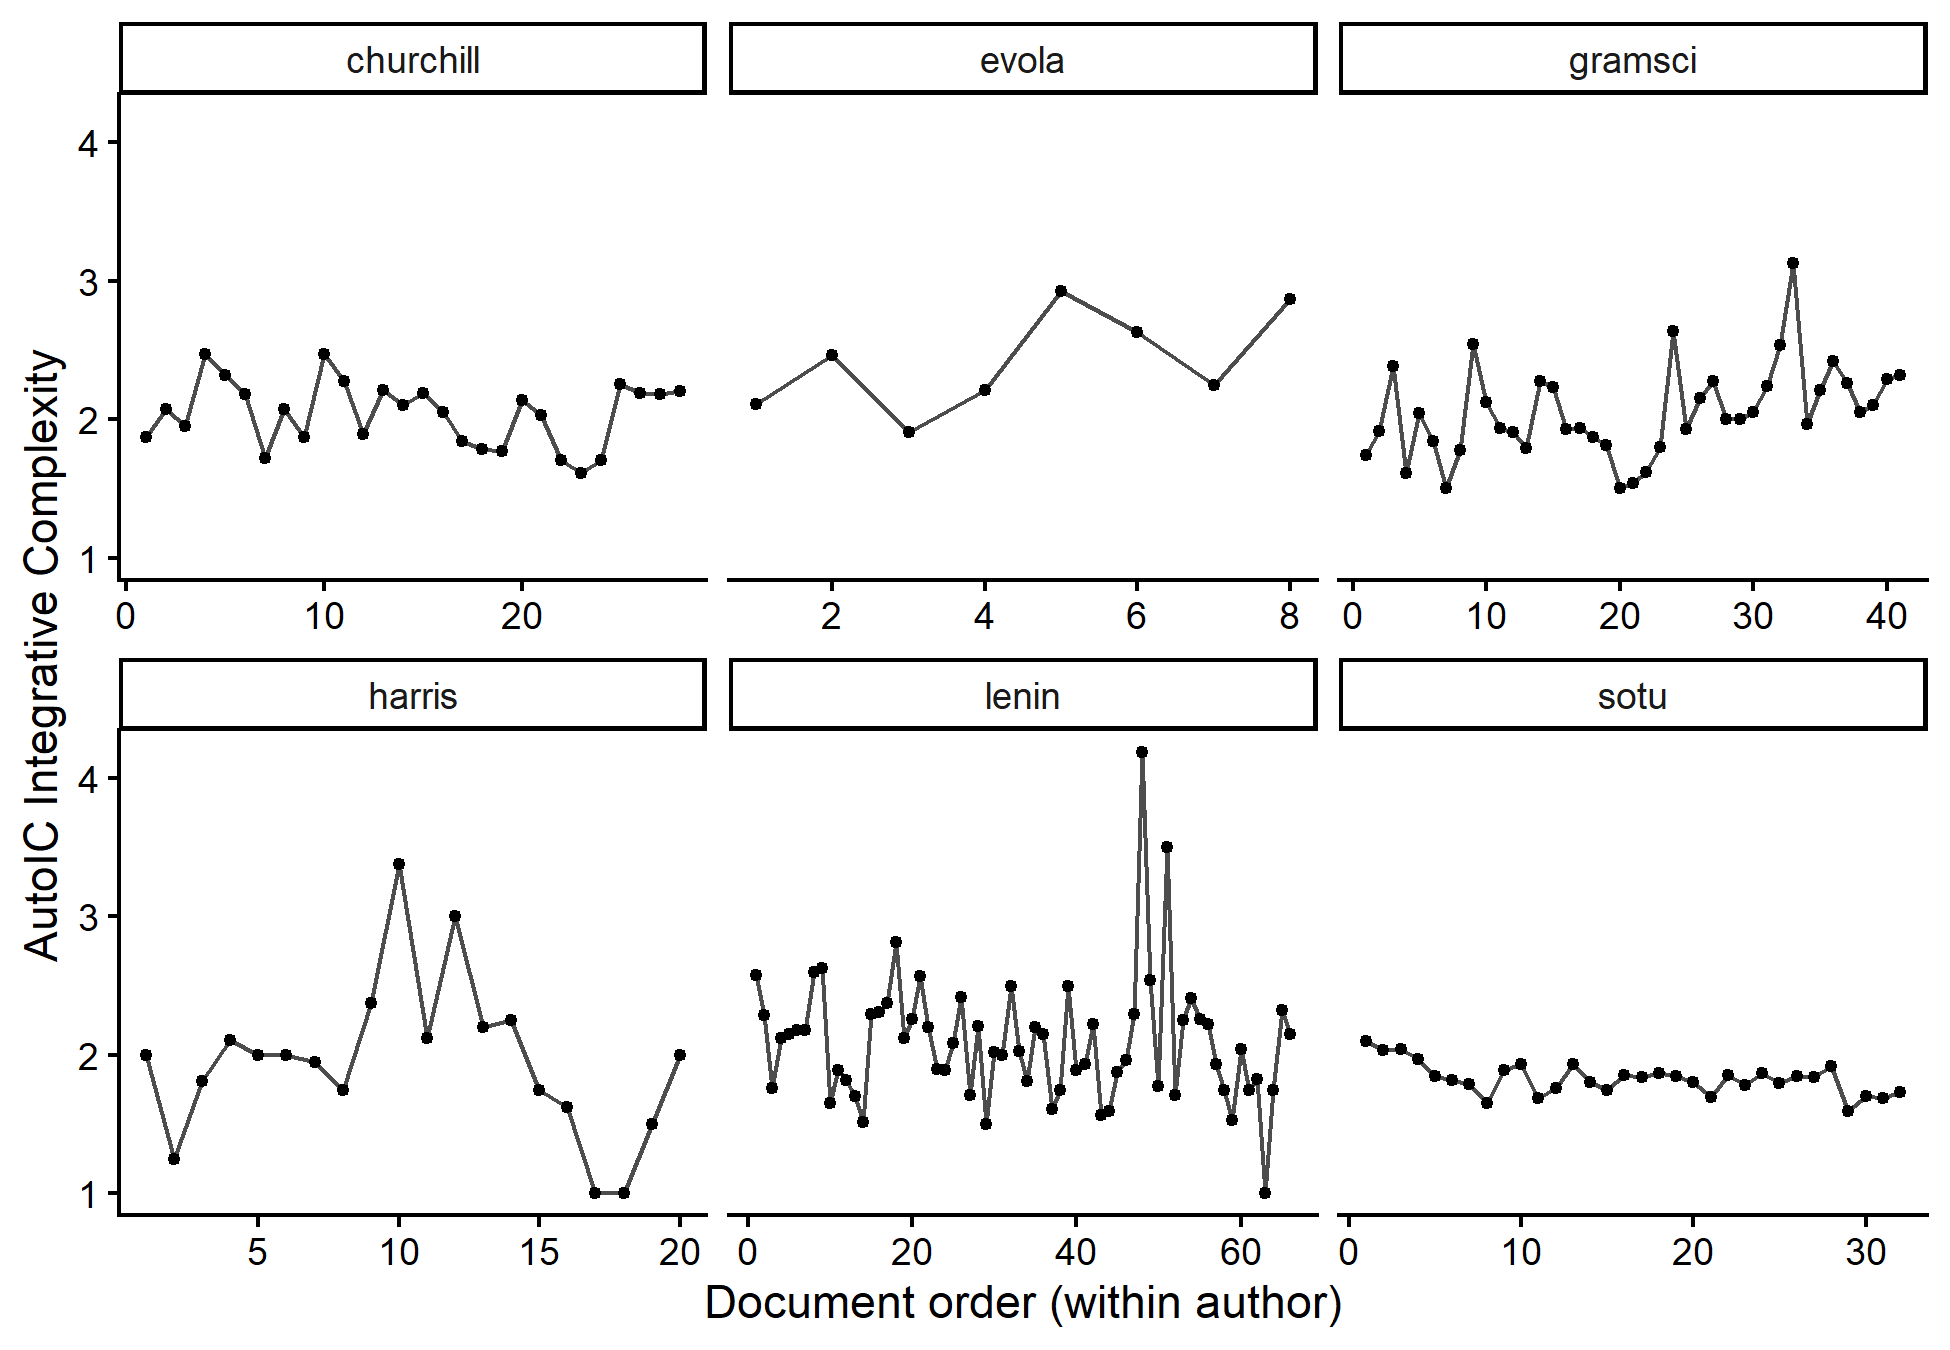
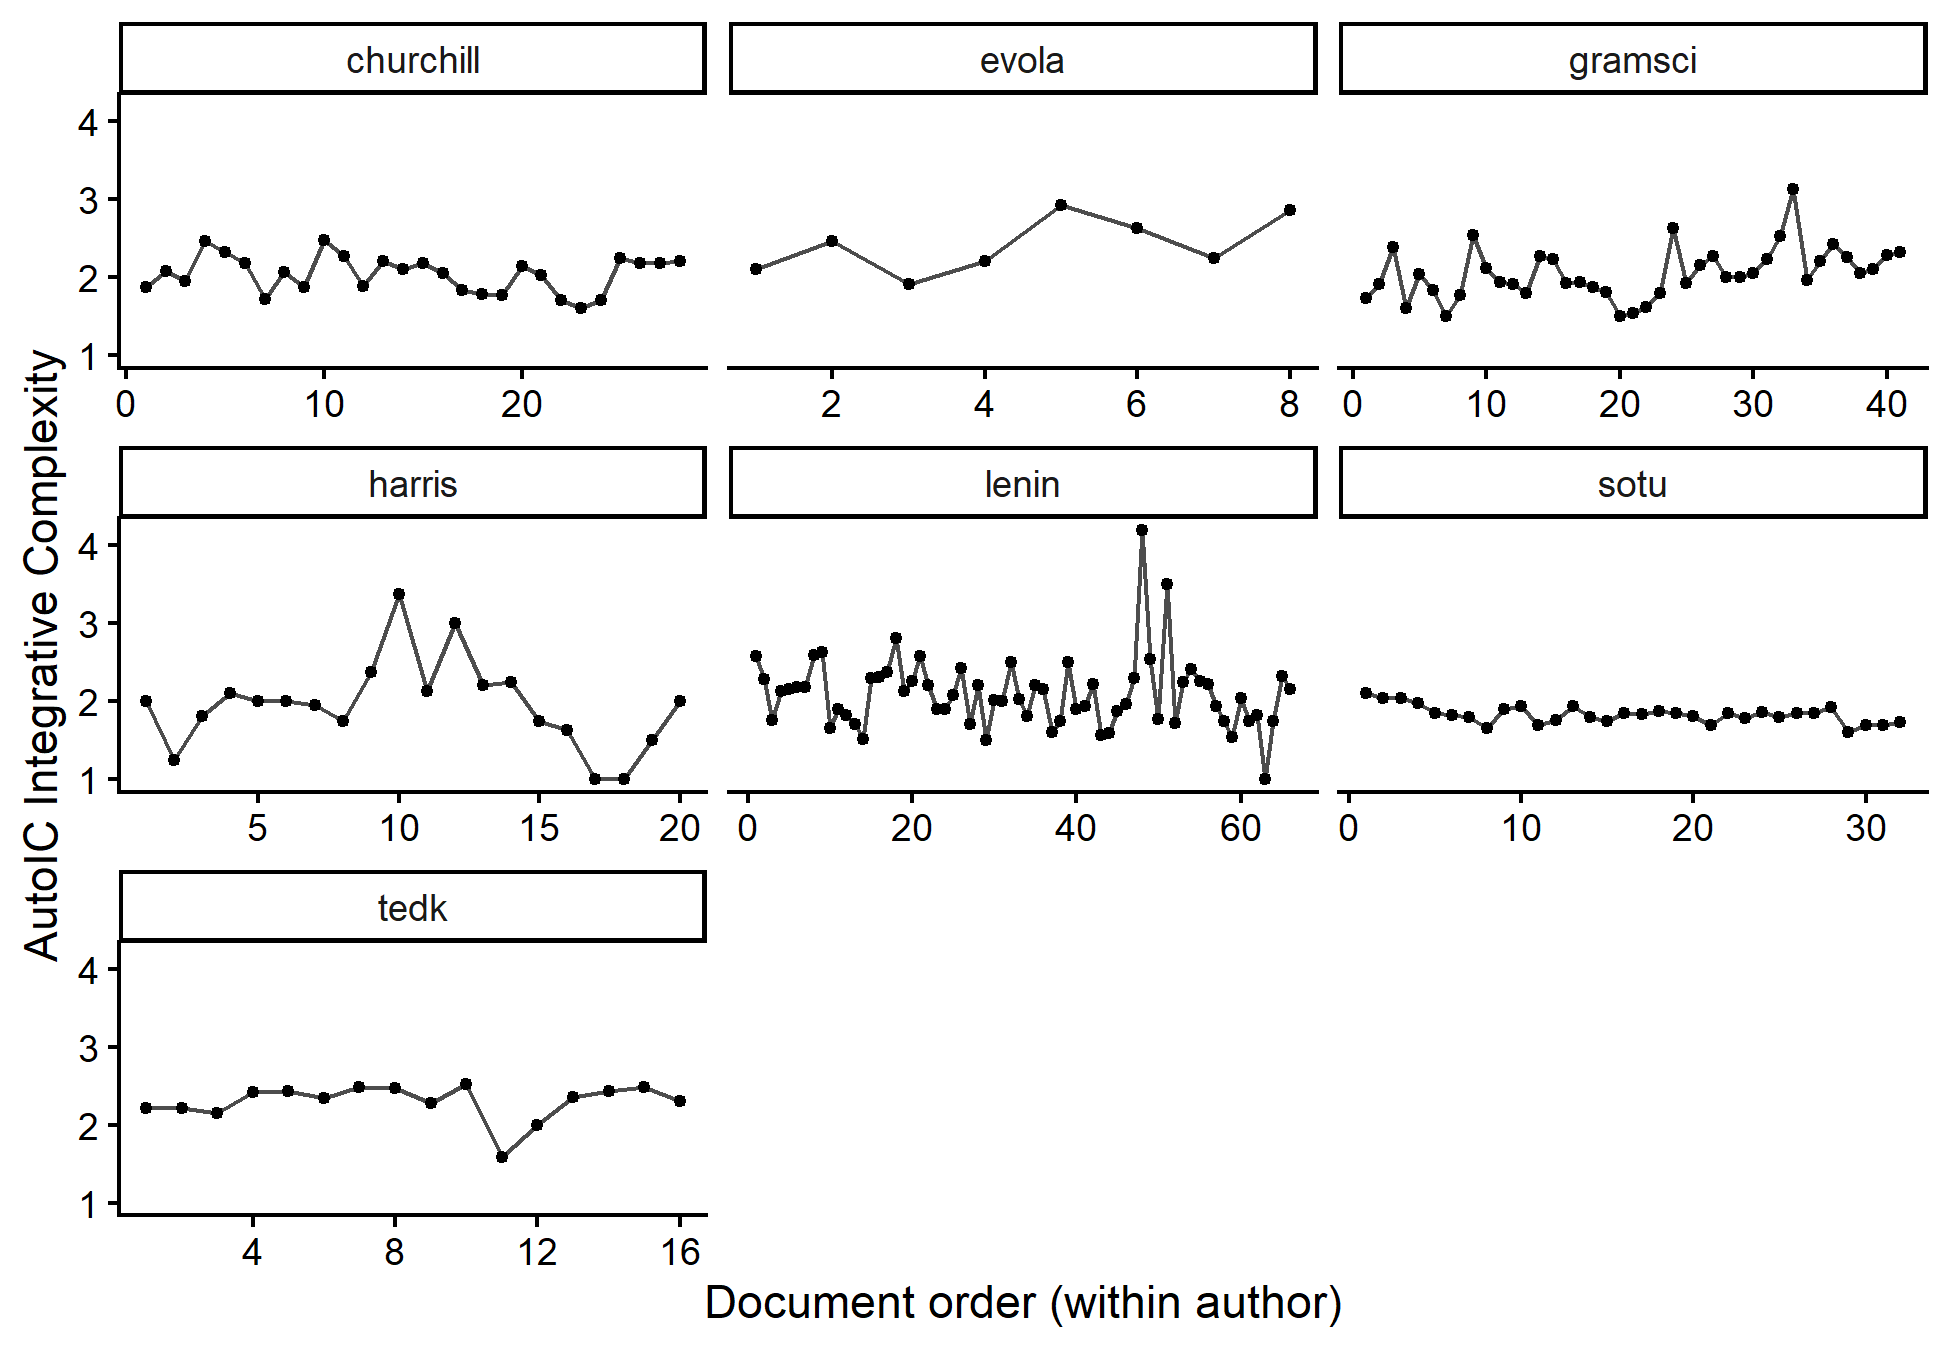
knew knit

diff --git a/Thesis/Thesis.tex b/Thesis/Thesis.tex
@@ -302,7 +302,7 @@ For longitudinal corpora (multiple texts per author over time), I estimate mixed
 \includegraphics[width=0.82\linewidth]{Thesis_files/figure-latex/group-prevalence-plot-1} \caption{Mean prevalence of grouped linguistic indicators of harm justification. Note. Bars represent mean grouped marker prevalence per 1,000 words across documents. Error bars represent 95\% confidence intervals. Marker groups aggregate lexical indicators defined in the study's marker dictionary.}\label{fig:group-prevalence-plot}
 \end{figure}
 
-Descriptive statistics were calculated to examine the prevalence of grouped linguistic indicators of harm justification across the manifesto corpus. Prevalence values represent occurrences of grouped markers per 1,000 words. Across all 251 manifestos, markers associated with hopelessness were the most common (M = 4.50, SD = 4.19), followed by role model status (M = 0.57, SD = 0.84), justification for violence (M = 0.30, SD = 0.71), martyrdom narratives (M = 0.16, SD = 0.40), dyadic harm language (M = 0.10, SD = 0.24), and references to violent actors or events (M = 0.09, SD = 0.46). Minimum and maximum prevalence values ranged from 0 to 26.32 depending on marker group.
+Descriptive statistics were calculated to examine the prevalence of grouped linguistic indicators of harm justification across the manifesto corpus. Prevalence values represent occurrences of grouped markers per 1,000 words. Across all 267 manifestos, markers associated with hopelessness were the most common (M = 4.58, SD = 4.59), followed by role model status (M = 0.56, SD = 0.83), justification for violence (M = 0.31, SD = 0.71), martyrdom narratives (M = 0.16, SD = 0.45), dyadic harm language (M = 0.13, SD = 0.33), and references to violent actors or events (M = 0.09, SD = 0.45). Minimum and maximum prevalence values ranged from 0 to 31.21 depending on marker group.
 
 \begin{table}[tbp]
 
@@ -501,9 +501,9 @@ Mixed-effects models were estimated to examine within-author changes in integrat
 \toprule
 Model & \multicolumn{1}{c}{Term} & \multicolumn{1}{c}{B} & \multicolumn{1}{c}{SE} & \multicolumn{1}{c}{t}\\
 \midrule
-Justification \textasciitilde{} IC + Time & ic & -0.11 & 0.11 & -0.99\\
-Justification \textasciitilde{} IC + Time & time\_c & 0.00 & 0.00 & 0.76\\
-IC \textasciitilde{} Time & time\_c & 0.00 & 0.00 & -0.03\\
+Justification \textasciitilde{} IC + Time & ic & -0.11 & 0.11 & -0.97\\
+Justification \textasciitilde{} IC + Time & time\_c & 0.00 & 0.00 & 0.81\\
+IC \textasciitilde{} Time & time\_c & 0.00 & 0.00 & 0.24\\
 \bottomrule
 \addlinespace
 \end{tabular}
@@ -606,12 +606,12 @@ Whitehouse, H. (2018). Dying for the group: Towards a general theory of extreme 
 \toprule
 Marker Group & \multicolumn{1}{c}{Documents} & \multicolumn{1}{c}{Mean} & \multicolumn{1}{c}{SD} & \multicolumn{1}{c}{Min} & \multicolumn{1}{c}{Max}\\
 \midrule
-Hopelessness & 251 & 4.50 & 4.19 & 0.00 & 26.32\\
-Role Model Status & 251 & 0.57 & 0.84 & 0.00 & 5.02\\
-Justification For Violence & 251 & 0.30 & 0.71 & 0.00 & 7.58\\
-Martyrdom Narrative & 251 & 0.16 & 0.40 & 0.00 & 2.26\\
-Dyadic Harm & 251 & 0.10 & 0.24 & 0.00 & 2.44\\
-Violent Reference & 251 & 0.09 & 0.46 & 0.00 & 3.92\\
+Hopelessness & 267 & 4.58 & 4.59 & 0.00 & 31.21\\
+Role Model Status & 267 & 0.56 & 0.83 & 0.00 & 5.02\\
+Justification For Violence & 267 & 0.31 & 0.71 & 0.00 & 7.58\\
+Martyrdom Narrative & 267 & 0.16 & 0.45 & 0.00 & 4.06\\
+Dyadic Harm & 267 & 0.13 & 0.33 & 0.00 & 2.62\\
+Violent Reference & 267 & 0.09 & 0.45 & 0.00 & 3.92\\
 \bottomrule
 \addlinespace
 \end{tabular}
